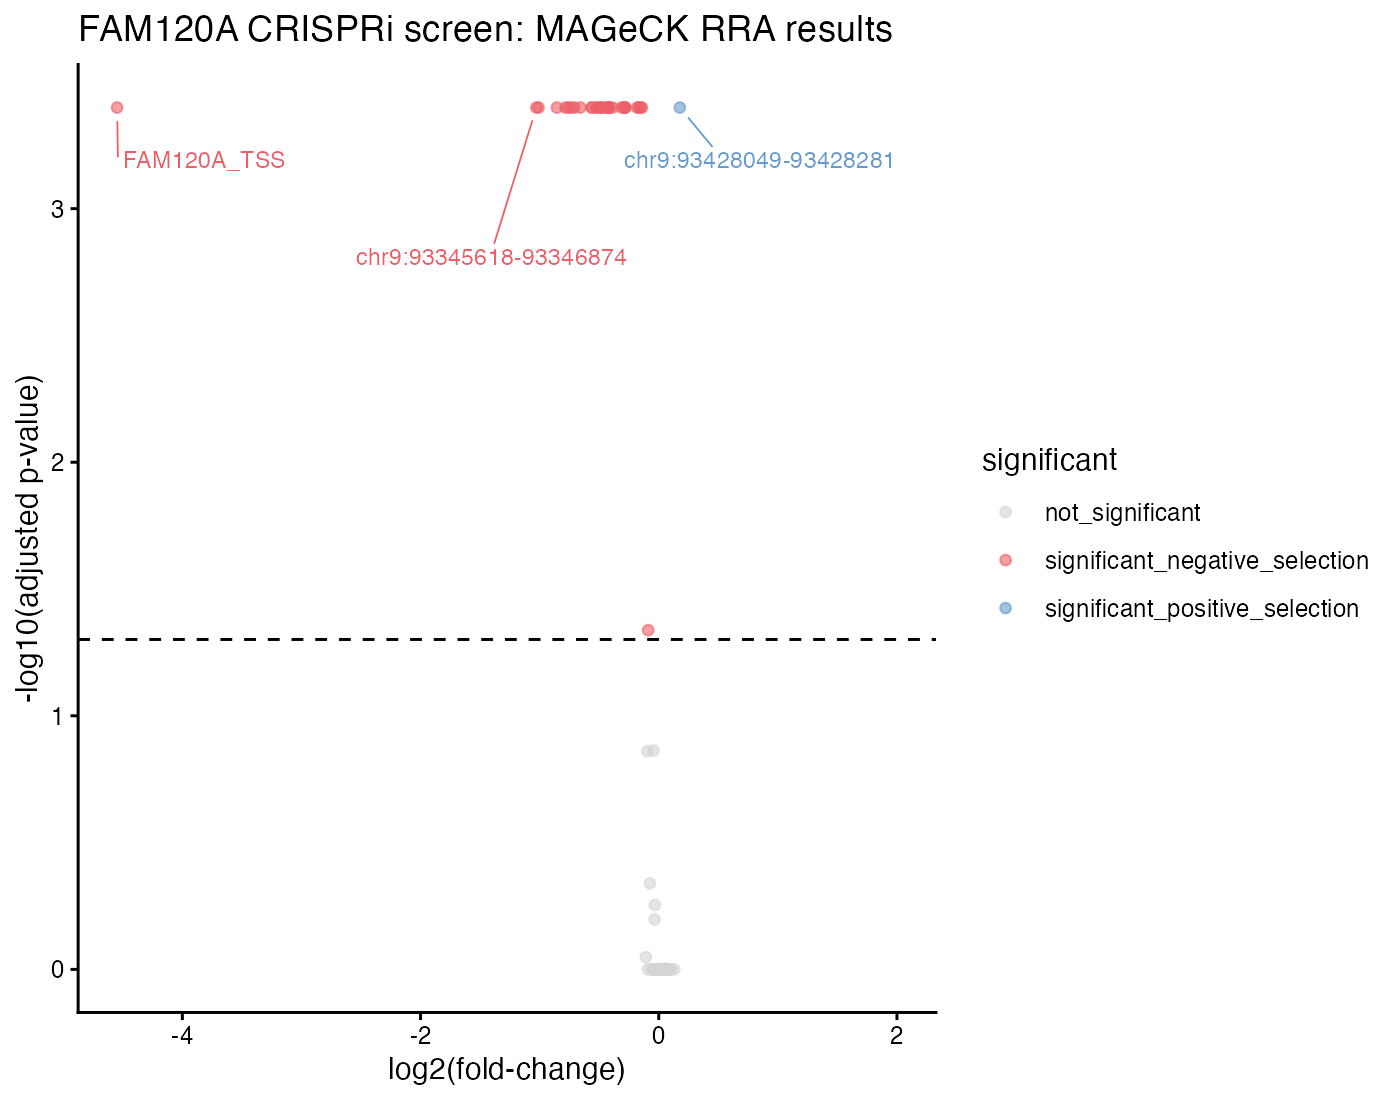
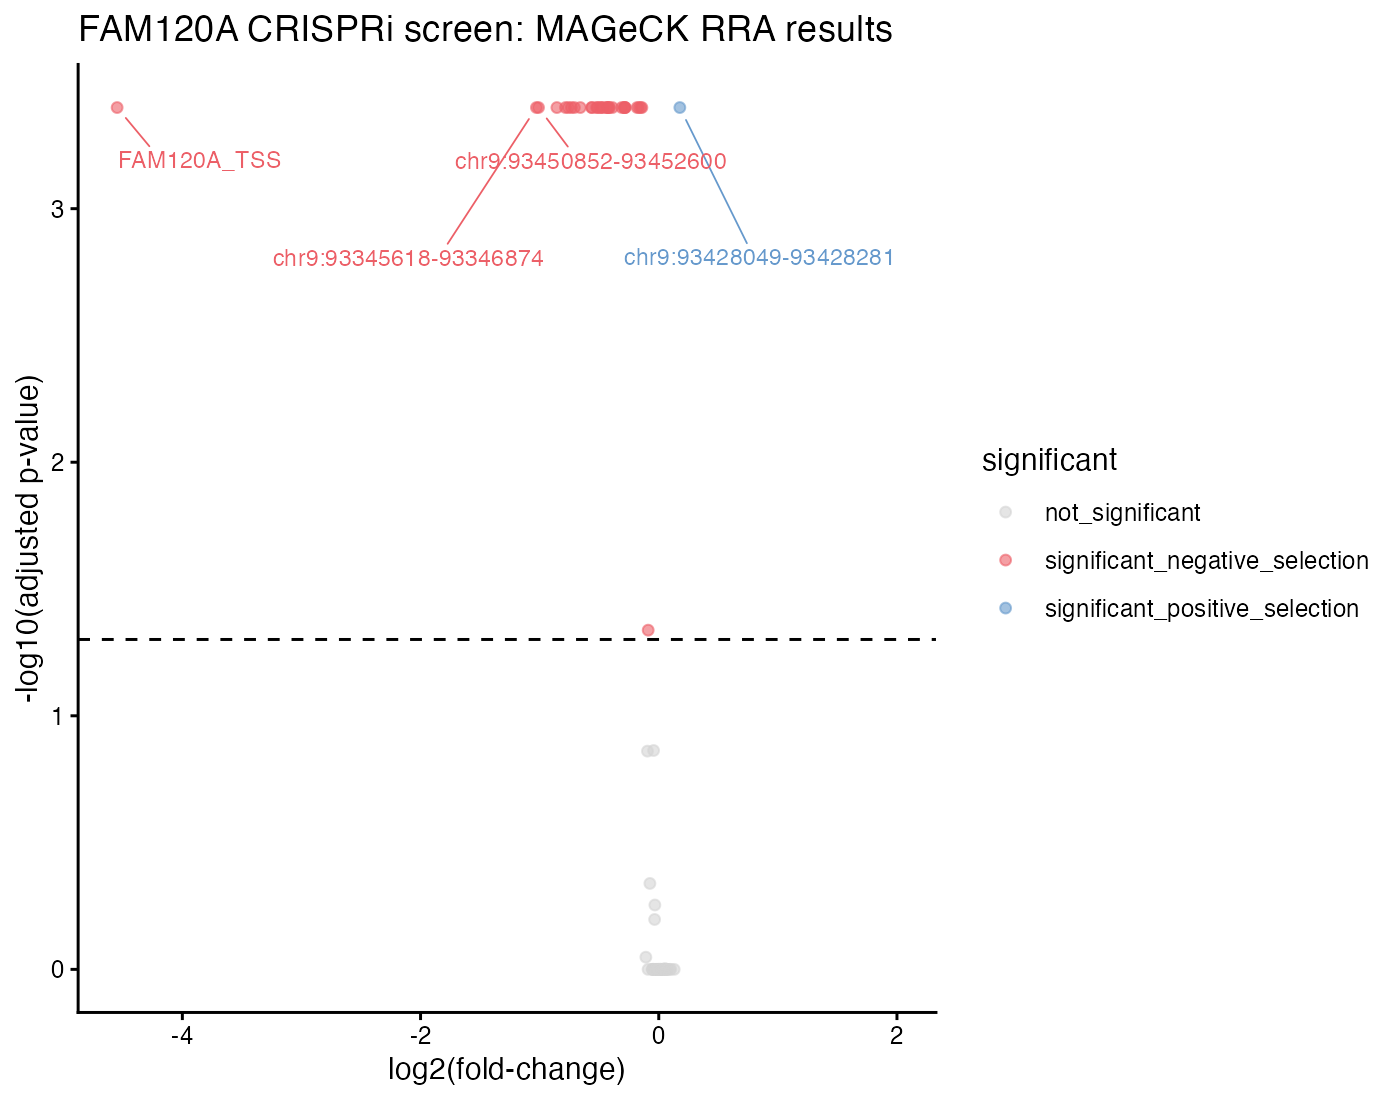
Expand README with screen motivation, real QC/mapping stats, and hit annotation
Rewrites background/intro around identifying which candidate regulatory
elements regulate nearby genes, pulling phrasing from the manuscript.
Adds "How the screen works" walking through transduction, HCR-FlowFISH
sorting, gDNA/PCR/sequencing, and why bulk-sample gDNA is collected
(distinguishing library dropouts from genuine sorting effects).
Adds a gRNAs-per-pRE tiling plot and explains why MAGeCK RRA aggregates
guide-level signal into per-element effect sizes.
Adds read-quality and mapping-rate QC (new plot_read_quality.py script,
03_align_and_count.sh now saves bowtie2's alignment summary).
Corrects and annotates the top MAGeCK hits in the FAM120A volcano plot
as the FAM120A and C9orf129 promoters, and reports significant-hit counts.
Fixes leftover panel labels and cropping in the manuscript figure images.

Changed region(s): [[0.1843, 0.2164, 0.645, 0.2473], [0.3379, 0.1236, 0.645, 0.1855], [0.0921, 0.1236, 0.215, 0.1545]]

diff --git a/scripts/plot_guides_per_element.py b/scripts/plot_guides_per_element.py
@@ -1,0 +1,47 @@
+"""
+Plot the distribution of gRNAs per targeted element (pRE) in a gRNA library FASTA.
+
+Guide names of the form "<element_coordinates>.<guide_index>" (e.g.
+chr9:93276907-93277330.0) are grouped by element coordinates; headers not
+starting with "chr" (e.g. non-targeting controls) are excluded, since they
+don't represent a tiled element.
+
+Usage:
+    python plot_guides_per_element.py <gRNA_library.fasta> <output_plot.png>
+"""
+
+import sys
+from collections import Counter
+import matplotlib
+matplotlib.use("Agg")
+import matplotlib.pyplot as plt
+
+
+def main():
+    fasta_path = sys.argv[1]
+    out_path = sys.argv[2]
+
+    element_counts = Counter()
+    with open(fasta_path) as f:
+        for line in f:
+            if line.startswith(">chr"):
+                guide_id = line[1:].strip()
+                element = guide_id.rsplit(".", 1)[0]
+                element_counts[element] += 1
+
+    counts = list(element_counts.values())
+    max_count = max(counts)
+
+    fig, ax = plt.subplots(figsize=(6, 4.5))
+    ax.hist(counts, bins=range(1, max_count + 2), color="#6699CC", edgecolor="white", align="left")
+    ax.set_xlabel("gRNAs per pRE")
+    ax.set_ylabel("Number of pREs")
+    ax.set_title("gRNA tiling density per pRE")
+    fig.tight_layout()
+    fig.savefig(out_path, dpi=200)
+
+    print(f"pREs: {len(counts)}, guides: {sum(counts)}, mean/pRE: {sum(counts)/len(counts):.1f}, max: {max_count}")
+
+
+if __name__ == "__main__":
+    main()

diff --git a/scripts/plot_read_quality.py b/scripts/plot_read_quality.py
@@ -1,0 +1,51 @@
+"""
+Plot the distribution of per-read average Phred quality scores for a FASTQ file.
+
+Accepts gzipped or plain FASTQ. Marks the Q30 threshold, a common baseline
+for high-confidence base calls.
+
+Usage:
+    python plot_read_quality.py <reads.fastq[.gz]> <output_plot.png>
+"""
+
+import sys
+import gzip
+import matplotlib
+matplotlib.use("Agg")
+import matplotlib.pyplot as plt
+
+Q30 = 30
+
+
+def open_fastq(path):
+    return gzip.open(path, "rt") if path.endswith(".gz") else open(path)
+
+
+def main():
+    fastq_path = sys.argv[1]
+    out_path = sys.argv[2]
+
+    avg_quals = []
+    with open_fastq(fastq_path) as f:
+        for i, line in enumerate(f):
+            if i % 4 == 3:
+                quals = [ord(c) - 33 for c in line.strip()]
+                avg_quals.append(sum(quals) / len(quals))
+
+    n = len(avg_quals)
+    frac_q30 = sum(q >= Q30 for q in avg_quals) / n
+
+    fig, ax = plt.subplots(figsize=(6, 4.5))
+    ax.hist(avg_quals, bins=60, color="#6699CC", edgecolor="white")
+    ax.axvline(Q30, linestyle="--", color="#EC5F67")
+    ax.set_xlabel("Average Phred quality per read")
+    ax.set_ylabel("Number of reads")
+    ax.set_title("Read quality distribution")
+    fig.tight_layout()
+    fig.savefig(out_path, dpi=200)
+
+    print(f"reads: {n}, mean avg quality: {sum(avg_quals)/n:.1f}, fraction >= Q30: {frac_q30:.3f}")
+
+
+if __name__ == "__main__":
+    main()

diff --git a/README.md b/README.md
@@ -1,10 +1,10 @@
 # CRISPRi HCR-FlowFISH Screen Analysis
 
-Analysis pipeline for four CRISPRi HCR-FlowFISH screens, from demultiplexed FASTQs through regulatory element identification.
+Analysis pipeline for four CRISPRi HCR-FlowFISH screens, from demultiplexing FASTQs through regulatory element identification.
 
 ## Background
 
-Common noncoding variants identified by GWAS map to noncoding regions of the genome where we don't know how they impact gene expression or which genes they regulate. CRISPRi HCR-FlowFISH screening addresses this: starting from a list of candidate, or putative, regulatory elements (pREs) identified from ATAC-seq peaks near a gene of interest, each pRE is targeted by a pool of gRNAs, cells are stained for the target transcript by hybridization chain reaction (HCR), and cells are sorted by FACS into bins based on target gene expression. Comparing gRNA abundance between the low- and high-expression bins identifies which of these candidate pREs, when repressed, significantly change expression of the target gene &mdash; directly identifying which regulatory elements control that gene.
+Common noncoding variants identified by GWAS often map to noncoding regions of the genome where we don't know how they impact gene expression or which genes they regulate. CRISPRi HCR-FlowFISH can robustly assay pREs for regulatory function and link REs to gene targets. Starting from a list of putative regulatory elements (pREs) identified from ATAC-seq peaks near a gene of interest, each pRE is targeted by a pool of gRNAs, and HCR-FlowFISH is used to cytometrically sort cells into bins based on low (0-15 percentile) or high (85-100 percentile) target gene expression, normalizing for variability in size and permeability using the housekeeping gene TBP. Comparing gRNA abundance between the low- and high-expression bins identifies which of these candidate pREs, when repressed, significantly change expression of the target gene, directly identifying which regulatory elements modulate that gene.
 
 ![HCR-FlowFISH CRISPRi screening schematic](docs/manuscript_figures/HCR-FlowFISH_CRISPRi_schematic.png)
 
@@ -21,6 +21,10 @@ This repository analyzes four such screens, three loci in i3N-WTC11 iPSCs and on
 
 ### How the screen works
 
+Each library is designed with up to 20 gRNAs per pRE, tiling the element with multiple independent guides rather than relying on a single guide per element. The plot below counts gRNAs per pRE directly from the FAM120A library FASTA in this repo &mdash; most pREs are tiled at or near the maximum of 20 guides:
+
+![FAM120A gRNAs per element](docs/example_plots/FAM120A_guides_per_element.png)
+
 Cells expressing dCas9<sup>KRAB</sup> (iPSCs or iNeurons) are transduced with the pooled lentiviral gRNA library at a low multiplicity of infection, so that each cell receives at most one gRNA, then selected with puromycin so that only transduced cells remain. Each surviving cell now stably represses one pRE (or, for non-targeting controls, no element) via CRISPRi. Cells are then fixed, permeabilized, and stained by HCR-FlowFISH for both the target gene transcript and the housekeeping gene TBP (to normalize for cell size/permeability), and sorted by FACS into bins based on target gene expression &mdash; bottom 15% and top 15% in these screens &mdash; along with a bulk (unsorted) sample.
 
 Genomic DNA is then extracted from each sorted bin as well as from a bulk (unsorted) sample of the same cells, and the gRNA sequence integrated into each cell's genome is PCR-amplified directly out of that genomic DNA and sequenced &mdash; that sequencing is the FASTQ data this pipeline processes. Since each cell carries one gRNA, sequencing and counting gRNAs in each bin measures how enriched or depleted each gRNA is between the low- and high-expression bins: a gRNA (and therefore its target pRE) enriched in the low-expression bin indicates that repressing that element decreases target gene expression, and vice versa.
@@ -35,7 +39,7 @@ Aggregating the enrichment signal across the gRNAs tiling each pRE and testing f
 - samtools 1.21
 - FASTX Toolkit 0.0.14 (fastx_trimmer)
 - MAGeCK 0.5.9.4
-- Python 3 with pandas
+- Python 3 with pandas and matplotlib
 - R with dplyr, data.table, ggplot2, ggrepel, corrplot
 
 ## Repository contents
@@ -47,6 +51,8 @@ Aggregating the enrichment signal across the gRNAs tiling each pRE and testing f
   See the comments at the bottom of the script for the actual barcodes/indices used for the FAM120A screen as a worked example.
 - `gRNA_libraries/` — Bowtie2 reference FASTAs for each locus (`FAM120A_gRNA_lib.fasta`, `STAG1_gRNA_lib.fasta`, `SV2A_gRNA_lib.fasta`; the same SV2A library is used for both the iPSC and iNeuron screens) and the shared non-targeting control guide list (`control_gRNAs.txt`, used identically across all four screens).
 - `scripts/01_build_bowtie2_index.sh` through `scripts/07_analyze_mageck_results.R` — the full alignment/counting/QC/MAGeCK/results pipeline, walked through below using the FAM120A screen as a worked example. Plots are generated from the real FAM120A screen data; the underlying count tables and MAGeCK output are not included in this repo.
+- `scripts/plot_guides_per_element.py` — plots gRNAs-per-pRE tiling density directly from a gRNA library FASTA (not part of the numbered per-sample pipeline; run once per library).
+- `scripts/plot_read_quality.py` — plots the per-read average Phred quality distribution for a FASTQ file (used for QC alongside Step 4's mapping rate).
 
 ## Pipeline walkthrough: FAM120A
 
@@ -74,7 +80,15 @@ scripts/02_trim_reads.sh <barcode_length> <sample>_read1.fastq <sample>_read1_tr
 scripts/03_align_and_count.sh FAM120A_index <sample>_read1_trimmed.fastq <sample>
 ```
 
-Produces `<sample>.counts` (guide name, read count).
+Produces `<sample>.counts` (guide name, read count) and `<sample>.alignment_summary.txt` (bowtie2's read count and alignment rate). It's worth checking both read quality and mapping rate before trusting the resulting counts:
+
+**Read quality**, checked before trimming with `scripts/plot_read_quality.py <reads.fastq.gz> <output_plot.png>`:
+
+![FAM120A read quality distribution](docs/example_plots/FAM120A_read_quality.png)
+
+For the FAM120A bulk rep1 sample (1.39M reads), mean average quality per read is 37.1, with 99.2% of reads averaging Q30 or better &mdash; well above the Q30 threshold, so no additional quality filtering was needed for this run.
+
+**Mapping rate**, from `<sample>.alignment_summary.txt`: for the same sample, bowtie2 reports 89.89% of reads aligning to the FAM120A gRNA library (10.11% unaligned, likely reads with sequencing errors in the protospacer or contamination not matching any library guide). A mapping rate this high indicates the trimming window and library reference are correct for this sample; a much lower rate would be a sign to double-check the barcode length used for trimming (Step 3) or that the correct locus's library FASTA was used.
 
 ### 5. Merge into a raw count table
 
@@ -118,6 +132,8 @@ scripts/06_run_mageck.sh GD_FAM120A_RPM.csv GD_FAM120A \
 
 CRISPR-Cas9 screening analysis is performed using MAGeCK RRA paired analysis comparing bottom (treatment) and top (control) sorted bins, using non-targeting gRNAs as controls. MAGeCK RRA outputs `<output_prefix>.gene_summary.txt` (per-element negative/positive selection scores, p-values, FDRs, and ranks) and `<output_prefix>.sgrna_summary.txt` (per-guide statistics).
 
+RRA's element-level statistics in `gene_summary.txt` combine the enrichment of all gRNAs tiling a given pRE into a single effect size for that element, rather than reporting a separate effect size per guide. Requiring multiple independent gRNAs to agree before an element is called significant makes the result more robust: a single guide could show a strong effect for reasons unrelated to the pRE itself (an off-target or otherwise promiscuous effect on cell sorting), but that's much less likely to happen consistently across the up to 20 guides tiling the same element. This is also why `gene_summary.txt`, not `sgrna_summary.txt`, is the file used for downstream hit calling in Step 8.
+
 ### 8. Analyze MAGeCK results
 
 ```
@@ -128,7 +144,9 @@ Calls significant elements (Bonferroni-adjusted p-value <= 0.05, dashed line) fr
 
 ![FAM120A MAGeCK volcano plot](docs/example_plots/FAM120A_mageck_volcano.png)
 
-The target gene's own promoter (`FAM120A_TSS`) is the clear top hit and falls on the negative side, consistent with CRISPRi at the promoter being expected to strongly decrease that gene's own expression &mdash; a useful positive control when interpreting a new screen's results.
+The target gene's own promoter (`FAM120A_TSS`) is the clear top hit and falls on the negative side, consistent with CRISPRi at the promoter being expected to strongly decrease that gene's own expression &mdash; a useful positive control when interpreting a new screen's results. Beyond that positive control, the screen identifies 32 significant elements: 31 that decrease FAM120A expression when repressed and 1 that increases it, most of which sit well outside the promoter itself, spread across the ATAC-accessible pREs tiling the expanded locus (see the locus view below).
+
+The next two hits by rank are also promoters, but not both FAM120A's: `chr9:93450852-93452600` is a second, ATAC-peak-derived element overlapping the FAM120A promoter, while `chr9:93345618-93346874` is actually the promoter of the neighboring gene C9orf129, not FAM120A &mdash; both call out correctly as strong hits since CRISPRi at any gene's own promoter is expected to repress that gene, and both promoters happen to fall within this expanded locus's pRE library.
 
 ## What the results show
 
